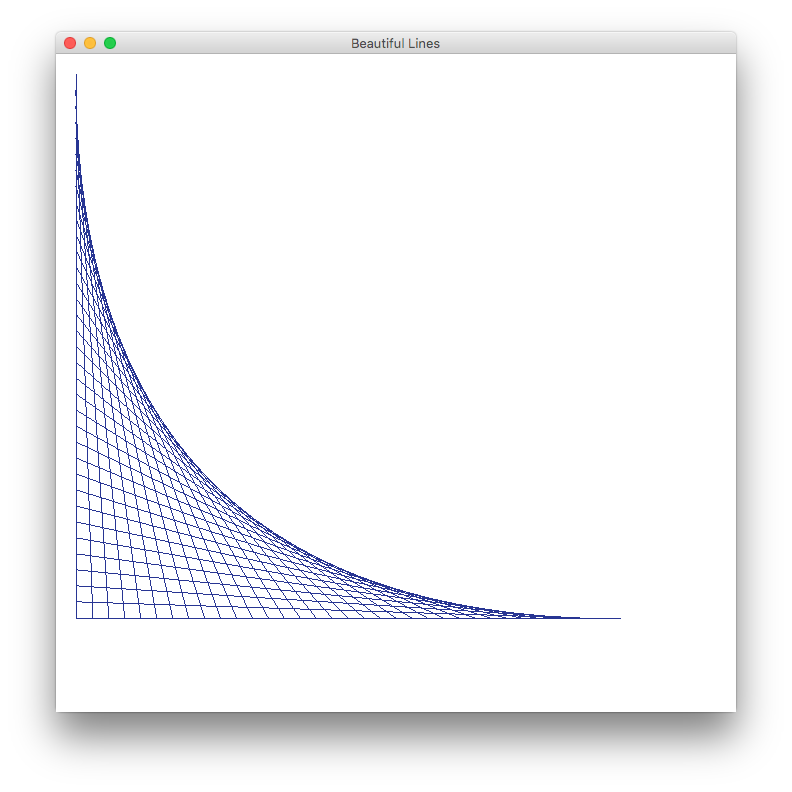
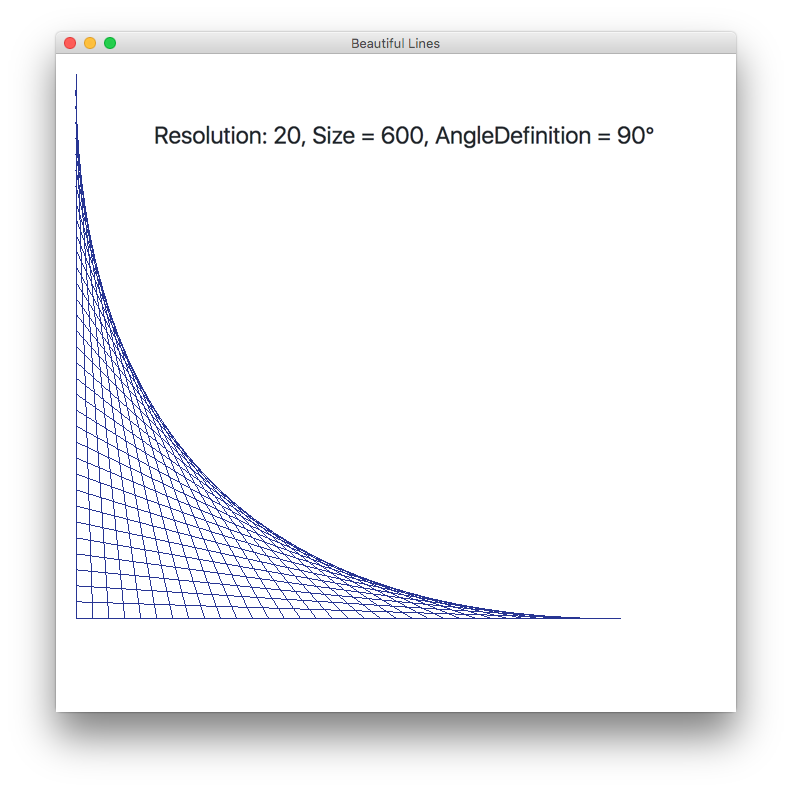
Go!

Changed region(s): [[0.1818, 0.1515, 0.8182, 0.1818]]

diff --git a/ArtWithLines/README.md b/ArtWithLines/README.md
@@ -33,17 +33,14 @@ Remember:
 Let's see an example:
 <center>	
 	<img src="Graphics/BezierCurveExample1.png" width="80%" height="50%">
-	<p>Resolution: 20, Size = 600, AngleDefinition = 90°</p>
 </center>
 
 <center>	
 	<img src="Graphics/BezierCurveExample2.png" width="80%" height="50%">
-	<p>Resolution: 10, Size = 500, AngleDefinition = 60°</p>
 </center>
 
 <center>	
 	<img src="Graphics/BezierCurveExample3.png" width="80%" height="50%">
-	<p>Resolution: 30, Size = 650, AngleDefinition = 30°</p>
 </center>
 
 
